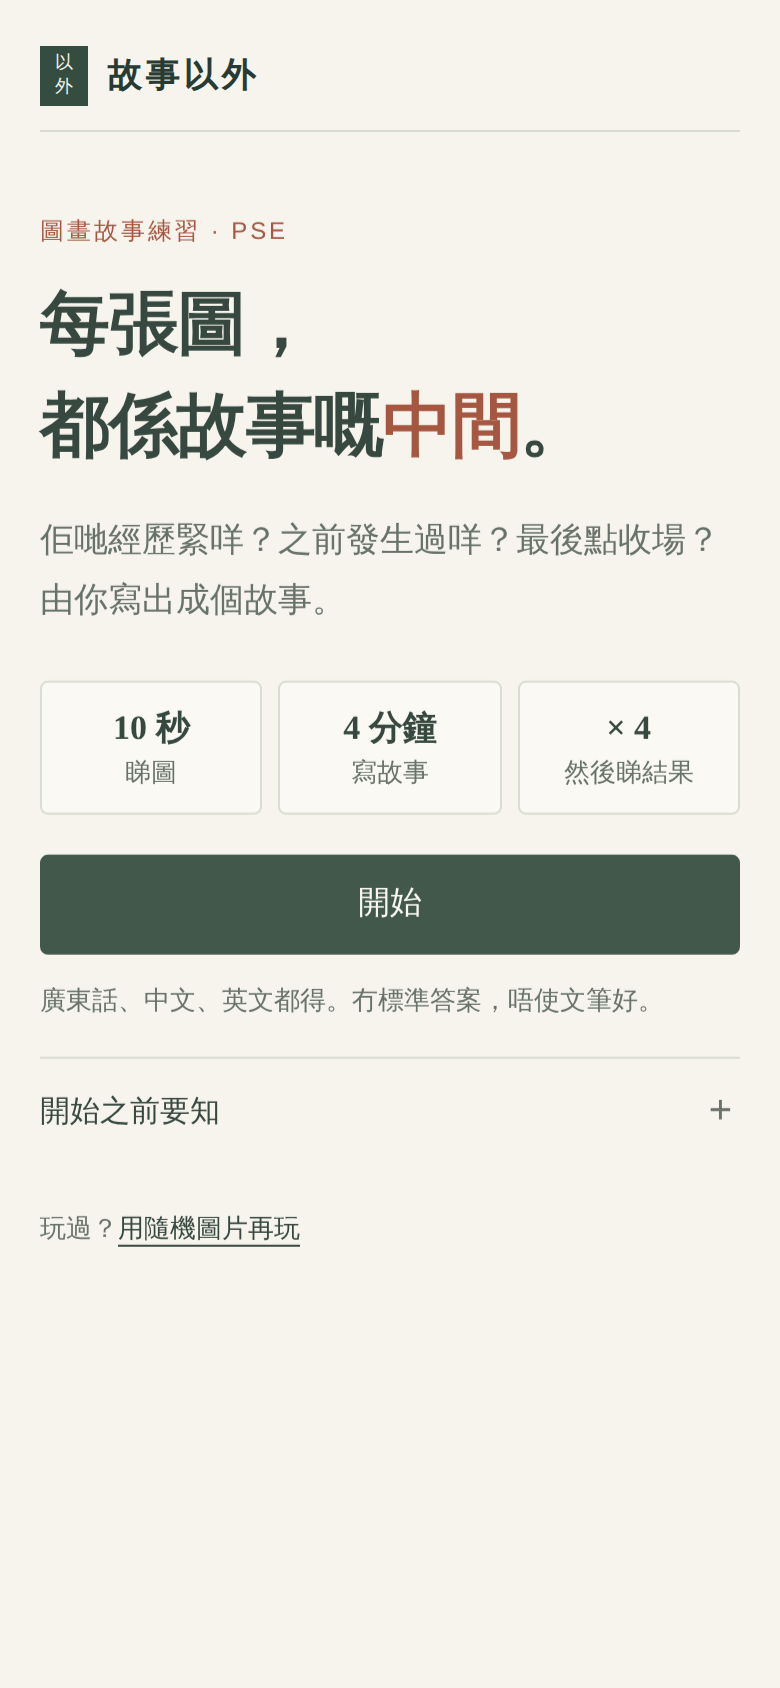
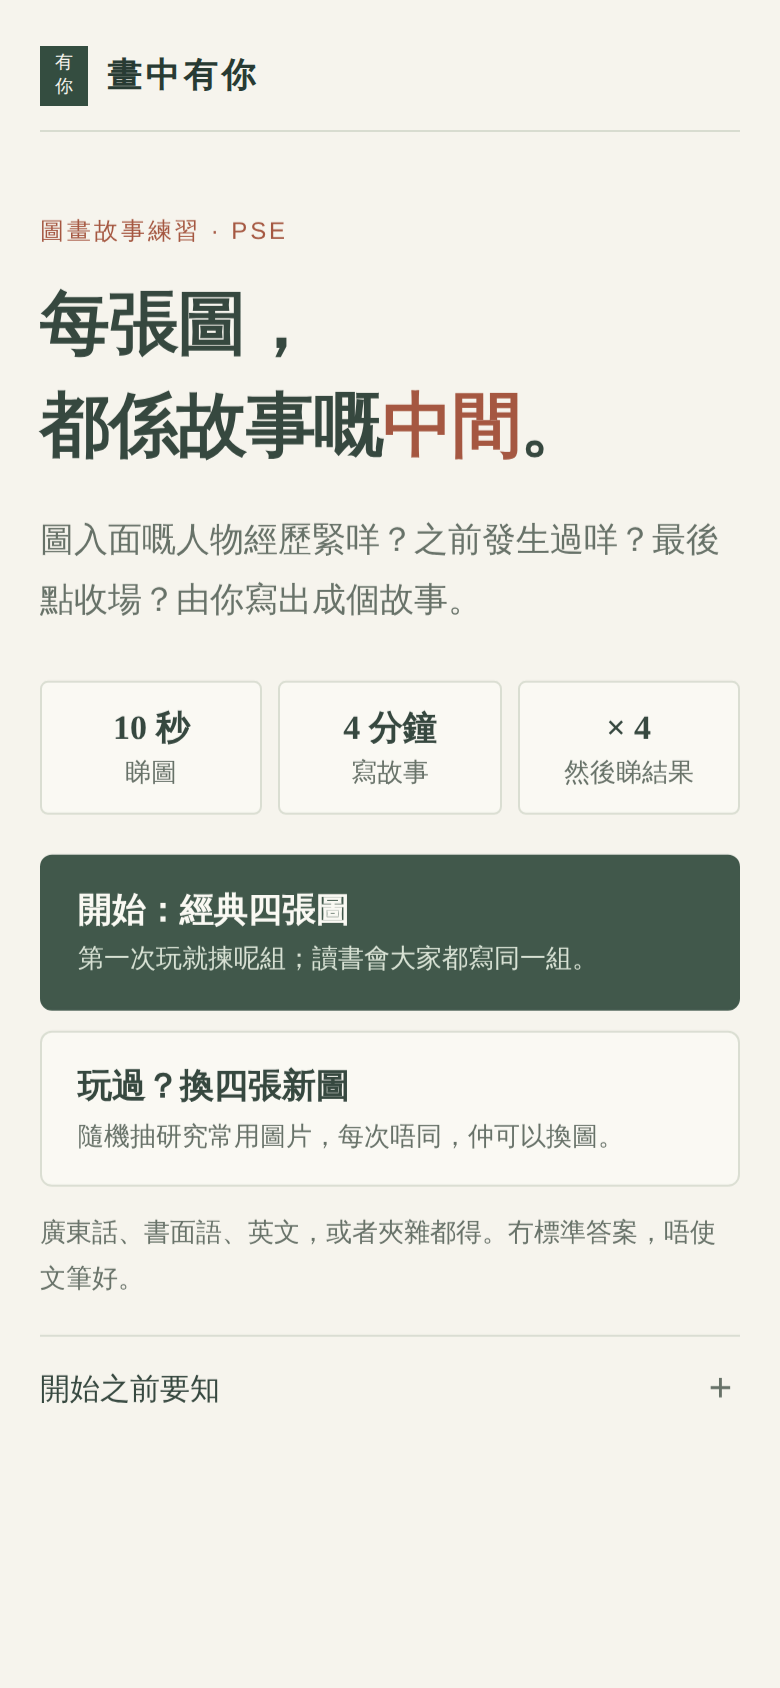
Offer the classic set first and new pictures on replay; make random draws sound
Why: the replay option was a small link under the fold, and an audit of
random mode found it mostly benchmarked against noise.

- Intro: two visible choices. First visit leads with the classic set
  (the bookclub discusses the same pictures); after a completed result
  (local pse-hk:played:v1) new pictures lead and the classic set follows.
  The results page gets a visible 換四張新圖再玩 button.
- Random draws only the 18 non-classic pictures whose German reference
  rests on >= 30 stories (81-2,316). 26 of 48 pictures had < 30 (min 3)
  and c08 none: ~96% of runs drew one, making the reference line and
  picture emphasis noise, and ~8% lost the comparison.
- The classic four are never drawn in random mode (~30% of replays did).
- Pictures already drawn are avoided until all 18 are seen (pse-hk:seen:v1);
  swaps follow the same rule; when too few remain, seen then skipped lists
  are forgotten so the activity never blocks.

Tests: fixtures (normal, fallback) with pool, no-repeat, cycle, swap and
choice-order checks; 18 Node; 49 pytest; full flow.

Claude-Session: https://claude.ai/code/session_01AKJCSX6GhkvQ21ka1gXCbL

diff --git a/web/app.js b/web/app.js
@@ -1,7 +1,12 @@
 "use strict";
 
 const KEY = "pse-hk:draft:v1";
-const SKIP_KEY = "pse-hk:skipped:v1"; // pictures skipped in any run; never drawn again
+const SKIP_KEY = "pse-hk:skipped:v1"; // pictures skipped in any run; not drawn again until the pool runs out
+const SEEN_KEY = "pse-hk:seen:v1";    // random-mode pictures already drawn; avoided until all have been seen
+const PLAYED_KEY = "pse-hk:played:v1"; // set after a result, so the intro suggests new pictures next time
+// Random mode draws only pictures whose German reference rests on at least this many stories;
+// smaller samples (down to 3 stories) make the reference line and picture emphasis noise.
+const MIN_NORM_STORIES = 30;
 const PER_RUN = 4;
 const MAX_SKIPS = 4;
 const MAX_AGE_MS = 7 * 24 * 3600 * 1000;
@@ -93,8 +98,31 @@ function fresh() {
 const byId = (id) => pool.find((p) => p.id === id);
 function usePictures() { pictures = S.order.map(byId); }
 
-function skipped() {
-  try { return JSON.parse(localStorage.getItem(SKIP_KEY)) || []; } catch { return []; }
+const readList = (key) => { try { return JSON.parse(localStorage.getItem(key)) || []; } catch { return []; } };
+const skipped = () => readList(SKIP_KEY);
+function remember(key, ids) {
+  try { localStorage.setItem(key, JSON.stringify([...new Set([...readList(key), ...ids])])); } catch { /* storage unavailable */ }
+}
+function forget(key) {
+  try { localStorage.removeItem(key); } catch { /* storage unavailable */ }
+}
+function played() {
+  try { return !!localStorage.getItem(PLAYED_KEY); } catch { return false; }
+}
+
+/** Random mode: pictures with a solid research reference, never the classic set, so a replay means new pictures. */
+const randomPool = () => pool.filter((p) => p.pull && p.pull.n_stories >= MIN_NORM_STORIES && !BOOKCLUB_SET.includes(p.id));
+
+/** Unseen, unskipped pictures; forgets what was seen, then what was skipped, rather than block the activity. */
+function candidates(exclude = [], need = 1) {
+  const pick = (...keys) => {
+    const gone = new Set([...exclude, ...keys.flatMap(readList)]);
+    return randomPool().filter((p) => !gone.has(p.id));
+  };
+  let free = pick(SKIP_KEY, SEEN_KEY);
+  if (free.length < need) { forget(SEEN_KEY); free = pick(SKIP_KEY); }
+  if (free.length < need) { forget(SKIP_KEY); free = pick(); }
+  return free;
 }
 
 function takeRandom(list) {
@@ -108,30 +136,22 @@ function draw() {
     S.stories = Object.fromEntries(S.order.map((id) => [id, ""]));
     return usePictures();
   }
-  const gone = new Set(skipped());
-  let free = pool.filter((p) => !gone.has(p.id));
-  if (free.length < PER_RUN) {
-    // ponytail: pool used up by old skips, so forget them rather than block the activity
-    try { localStorage.removeItem(SKIP_KEY); } catch { /* storage unavailable */ }
-    free = [...pool];
-  }
+  const free = candidates([], PER_RUN);
   S.order = Array.from({ length: PER_RUN }, () => takeRandom(free).id);
+  remember(SEEN_KEY, S.order);
   S.stories = Object.fromEntries(S.order.map((id) => [id, ""]));
   usePictures();
 }
 
-function replacements() {
-  const gone = new Set([...skipped(), ...S.order]);
-  return pool.filter((p) => !gone.has(p.id));
-}
-
 function skip() {
   const pid = S.order[S.round];
-  const left = replacements();
-  if (!S.skipsLeft || !left.length || composing) return;
+  if (!S.skipsLeft || composing) return;
   if (S.stories[pid].trim() && !confirm("換圖會刪除你為呢張圖寫嘅故事，確定？")) return;
-  try { localStorage.setItem(SKIP_KEY, JSON.stringify([...skipped(), pid])); } catch { /* still skipped for this run */ }
+  remember(SKIP_KEY, [pid]);
+  const left = candidates(S.order);
+  if (!left.length) return;
   const next = takeRandom(left).id;
+  remember(SEEN_KEY, [next]);
   S.order[S.round] = next;
   delete S.stories[pid]; delete S.writeMs[pid];
   S.stories[next] = "";
@@ -142,7 +162,8 @@ function skip() {
 }
 
 function updateSkip() {
-  const can = S.skipsLeft > 0 && replacements().length > 0;
+  // candidates() can always refill by forgetting, so any other eligible picture means a swap is possible.
+  const can = S.skipsLeft > 0 && randomPool().some((p) => !S.order.includes(p.id));
   document.querySelectorAll(".skip").forEach((b) => {
     b.hidden = !can;
     b.textContent = `換一張（仲可以換 ${S.skipsLeft} 次）`;
@@ -196,11 +217,26 @@ function show(id) {
 
 function goIntro() {
   const d = load();
-  $("btn-start").hidden = !!d;
-  $("btn-random").hidden = !!d;
-  $("btn-resume").hidden = !d;
-  $("btn-delete").hidden = !d;
+  $("choices").hidden = !!d;
+  $("resume-actions").hidden = !d;
+  setChoices(played());
   show("v-intro");
+}
+
+/** First visit: the classic set leads. After a result: new pictures lead, the classic set stays one tap away. */
+function setChoices(returning) {
+  const classic = $("btn-start"), fresher = $("btn-random");
+  classic.className = returning ? "choice" : "choice primary";
+  fresher.className = returning ? "choice primary" : "choice";
+  const [ct, cn] = returning ? ["再寫一次經典四張", "同一組圖，睇下今次寫得一唔一樣。"]
+    : ["開始：經典四張圖", "第一次玩就揀呢組；讀書會大家都寫同一組。"];
+  const [ft, fn] = returning ? ["換四張新圖再玩", "隨機抽你未寫過嘅圖，唔啱眼仲可以換。"]
+    : ["玩過？換四張新圖", "隨機抽研究常用圖片，每次唔同，仲可以換圖。"];
+  classic.querySelector(".choice-title").textContent = ct;
+  classic.querySelector(".choice-note").textContent = cn;
+  fresher.querySelector(".choice-title").textContent = ft;
+  fresher.querySelector(".choice-note").textContent = fn;
+  $("choices").replaceChildren(...(returning ? [fresher, classic] : [classic, fresher]));
 }
 
 function resume(d) {
@@ -452,6 +488,7 @@ async function submit() {
         return showError("收到嘅結果唔完整，未能顯示。你嘅故事仍然保存喺呢度。");
       }
       lastResult = data;
+      try { localStorage.setItem(PLAYED_KEY, "1"); } catch { /* storage unavailable */ }
       clearDraft(); // only after a validated result has rendered
       S = fresh();
     });

diff --git a/tests/web_fixtures.js b/tests/web_fixtures.js
@@ -53,11 +53,39 @@ function runWebFixtures() {
   check("language line above the box", ["英文", "廣東話", "書面語", "夾雜"].every((x) => document.getElementById("lang-note").textContent.includes(x))
     && document.getElementById("lang-note").compareDocumentPosition(document.getElementById("story")) & Node.DOCUMENT_POSITION_FOLLOWING);
   check("no continuation framing", !document.getElementById("v-write").textContent.includes("然後"));
+  const stored = Object.fromEntries([SKIP_KEY, SEEN_KEY, PLAYED_KEY].map((k) => [k, localStorage.getItem(k)]));
   S = fresh(); S.mode = "random"; draw();
   check("random draws four", new Set(S.order).size === 4 && S.skipsLeft === MAX_SKIPS);
   check("random pool covers whole archive", pool.length === 48
     && pool.filter(p => p.archive_file.startsWith("classic images/")).length === 18
     && pool.filter(p => p.archive_file.startsWith("new images/")).length === 30);
+  // Random mode: solid references only, never the classic set, no repeats until every eligible picture is seen.
+  [SKIP_KEY, SEEN_KEY].forEach((k) => localStorage.removeItem(k));
+  const eligible = randomPool();
+  check("random pool: solid references outside the classic set", eligible.length === 18
+    && eligible.every((p) => p.pull && p.pull.n_stories >= MIN_NORM_STORIES && !BOOKCLUB_SET.includes(p.id))
+    && !eligible.some((p) => p.id === "c08" || p.id === "n26"));
+  const runs = Array.from({ length: 4 }, () => { S = fresh(); S.mode = "random"; draw(); return [...S.order]; });
+  check("four replays never repeat a picture", new Set(runs.flat()).size === 16
+    && runs.flat().every((id) => eligible.some((p) => p.id === id)));
+  S = fresh(); S.mode = "random"; draw();
+  check("pool exhausted: seen list starts a new cycle", new Set(S.order).size === 4 && readList(SEEN_KEY).length === 4);
+  const swap = candidates(S.order);
+  check("swaps avoid the current, seen and classic pictures", swap.length === 14
+    && !swap.some((p) => S.order.includes(p.id) || BOOKCLUB_SET.includes(p.id)));
+  localStorage.setItem(SKIP_KEY, JSON.stringify(eligible.slice(0, 16).map((p) => p.id)));
+  S = fresh(); S.mode = "random"; draw();
+  check("too many skips are forgotten rather than blocking", new Set(S.order).size === 4);
+  setChoices(false);
+  check("first visit leads with the classic set", document.getElementById("choices").firstElementChild.id === "btn-start"
+    && document.getElementById("btn-start").classList.contains("primary") && !document.getElementById("btn-random").classList.contains("primary")
+    && document.getElementById("btn-random").textContent.includes("玩過？"));
+  setChoices(true);
+  check("returning players are offered new pictures first", document.getElementById("choices").firstElementChild.id === "btn-random"
+    && document.getElementById("btn-random").classList.contains("primary") && document.getElementById("btn-start").textContent.includes("經典"));
+  setChoices(false);
+  check("results offer new pictures visibly", document.getElementById("btn-again-random").classList.contains("secondary"));
+  Object.entries(stored).forEach(([k, v]) => (v === null ? localStorage.removeItem(k) : localStorage.setItem(k, v)));
   S = fresh();
 
   pictures = ["p1", "p2", "p3", "p4"].map(byId); // results render against the run's pictures

diff --git a/web/index.html b/web/index.html
@@ -30,10 +30,13 @@
       <li><b>4 分鐘</b>寫故事</li>
       <li><b>× 4</b>然後睇結果</li>
     </ol>
-    <div class="actions intro-actions">
-      <button id="btn-start" class="primary">開始</button>
-      <button id="btn-resume" class="primary" hidden>繼續上次嘅故事</button>
-      <button id="btn-delete" class="quiet" hidden>刪除草稿</button>
+    <div id="choices" class="choices">
+      <button id="btn-start" class="choice primary" type="button"><span class="choice-title">開始：經典四張圖</span><span class="choice-note">第一次玩就揀呢組；讀書會大家都寫同一組。</span></button>
+      <button id="btn-random" class="choice" type="button"><span class="choice-title">玩過？換四張新圖</span><span class="choice-note">隨機抽研究常用圖片，每次唔同，仲可以換圖。</span></button>
+    </div>
+    <div id="resume-actions" class="actions intro-actions" hidden>
+      <button id="btn-resume" class="primary">繼續上次嘅故事</button>
+      <button id="btn-delete" class="quiet">刪除草稿</button>
     </div>
     <p class="fine">廣東話、書面語、英文，或者夾雜都得。冇標準答案，唔使文筆好。</p>
     <details class="more"><summary>開始之前要知</summary>
@@ -44,7 +47,6 @@
         <li>分析服務閒置時會休眠，提交後可能要等一陣。</li>
       </ul>
     </details>
-    <p class="fine repeat-play">玩過？<button id="btn-random" class="link" type="button">用隨機圖片再玩</button></p>
   </section>
 
   <section id="v-view" class="view exercise-view" hidden aria-labelledby="view-title">
@@ -142,8 +144,7 @@
       <ul id="credits-results" class="credits"></ul>
     </details>
 
-    <div class="result-footer"><div class="actions"><button id="btn-download" class="primary">下載故事同結果 ↓</button><button id="btn-restart" class="quiet">返回開始</button></div><p class="fine">結果唔會保存，重新整理就會消失。</p></div>
-    <p class="fine repeat-play"><button id="btn-again-random" class="link">用隨機圖片再寫一組</button></p>
+    <div class="result-footer"><div class="actions"><button id="btn-download" class="primary">下載故事同結果 ↓</button><button id="btn-again-random" class="secondary">換四張新圖再玩 →</button><button id="btn-restart" class="quiet">返回開始</button></div><p class="fine">結果唔會保存，重新整理就會消失。</p></div>
   </section>
   <noscript><p class="notice">呢個活動需要 JavaScript。</p></noscript>
 </main>

diff --git a/web/styles.css b/web/styles.css
@@ -57,7 +57,14 @@ button:disabled { opacity: .45; cursor: not-allowed; }
 .steps li { background: var(--card); border: 1px solid var(--rule); border-radius: 4px; padding: 10px 8px; text-align: center; font-size: 13px; color: var(--ink-2); line-height: 1.5; }
 .steps b { display: block; font: 600 17px/1.5 var(--display); color: var(--ink); }
 .intro-actions { margin: 20px 0 12px; }
-.repeat-play { margin: 16px 0 0; }
+.choices { display: grid; gap: 10px; margin: 20px 0 12px; }
+button.choice { display: grid; gap: 2px; text-align: left; padding: 14px 18px; background: var(--card); border-color: var(--rule); border-radius: 6px; }
+button.choice.primary { background: var(--binding); border-color: var(--binding); color: var(--card); }
+.choice-title { font: 600 17px/1.5 var(--body); }
+.choice-note { font-size: 13px; line-height: 1.6; color: var(--ink-2); font-weight: 400; }
+button.choice.primary .choice-note { color: #d6e0d3; }
+button.secondary { background: var(--card); border-color: var(--binding); color: var(--ink); }
+@media (hover: hover) { button.choice:not(.primary):hover, button.secondary:hover { background: var(--paper-2); } }
 ul.plain { padding-left: 18px; margin: 0; font-size: 14px; color: var(--ink-2); }
 ul.plain li { margin-bottom: 8px; }
 details.more { border-top: 1px solid var(--rule); margin-top: 16px; }

diff --git a/README.md b/README.md
@@ -67,7 +67,8 @@ Doing it at home also spreads the load. The backend scores one story set at a ti
 
 - Four pictures per run. Each is shown for 10 s, followed by a soft 4-minute writing period.
 - **Bookclub mode (default):** new runs show boxer, couple by river, women in laboratory, and ship captain, in that order (`BOOKCLUB_SET`: c05, c07, c18, c15), without skipping. Summed German picture-pull means: aff 4.18, ach 3.42, pow 3.99. Existing drafts keep their original pictures.
-- **Random mode:** four pictures from the entire supplied archive (18 classical and 30 newer pictures). Participants may skip up to 4 per run. Skipped pictures are excluded on that browser until fewer than four eligible pictures remain, when the exclusion list resets.
+- **Random mode (「換四張新圖」):** four pictures from the 18 outside the classic set whose German reference rests on at least 30 stories (`MIN_NORM_STORIES`; in practice 81–2,316). Pictures with tiny or missing norms stay in the catalogue for old drafts but are not drawn, because a reference from 3–9 stories makes the reference line and picture emphasis noise. Pictures already drawn on this browser are avoided until all 18 have been seen, so about four replays bring only new pictures. Participants may skip up to 4 per run; skipped pictures are avoided too. When too few remain, the seen list is forgotten first, then the skip list, so the activity never blocks.
+- **Choosing a set:** the intro offers two buttons. On a first visit 「開始：經典四張圖」 leads and 「玩過？換四張新圖」 follows; after a completed result the order flips (「換四張新圖再玩」 first, 「再寫一次經典四張」 second). The results page has a visible 「換四張新圖再玩」 button.
 - No motive category is named before writing. Results show a descriptive interpretation in words, a profile of bars against length-adjusted research reference lines when complete, exact supporting sentences, and relative picture emphasis. Balanced motive reflection notes, sentence cards (English and its themes), three SDT questions and a short 「關於呢個練習」 note with credits follow.
 - A story is final once the participant presses「下一張」, so later pictures cannot change earlier stories. The review screen is read-only, except for a story the length checks reject.
 - The writing screen asks for a complete story (「寫出成個故事」) in any comfortable language or mix. Placeholder prompts cover the scene, before, characters' inner experience and ending, with optional names or roles for clarity. Participants choose whom to write about; no gendered pronouns or answers for every person are required. Persistent reminders read 此刻 · 前因 · 內心 · 結局. A short story gets one optional, non-judgmental invitation to add thoughts or an ending. No self-revelation claim is made during writing. Guidance v4 preserves earlier draft history.
@@ -108,7 +109,7 @@ A motive counts at most once per sentence. Counts are raw, never per 1,000 words
 
 ## Pictures
 
-The private exercise uses the supplied `assets/pqckn-osfstorage-archive`: 18 classical pictures and 30 newer pictures. `web/stimuli.json` records the archive filename, source, dimensions and workbook row for each verified pull match. All 48 are eligible for random mode. The historical nine web images/IDs remain unchanged to preserve saved drafts; the other 39 are resized without cropping and compressed for web use. Existing licence records are retained; newly imported files are identified as supplied for private use without inventing individual licence claims.
+The private exercise uses the supplied `assets/pqckn-osfstorage-archive`: 18 classical pictures and 30 newer pictures. `web/stimuli.json` records the archive filename, source, dimensions and workbook row for each verified pull match. Random mode draws only the 18 non-classic pictures with at least 30 reference stories; all 48 remain loadable for existing drafts. The historical nine web images/IDs remain unchanged to preserve saved drafts; the other 39 are resized without cropping and compressed for web use. Existing licence records are retained; newly imported files are identified as supplied for private use without inventing individual licence claims.
 
 The default order is:
 
@@ -159,7 +160,7 @@ The frontend and backend must be deployed together whenever the picture pool cha
 
 ## Data
 
-Drafts stay in the participant's browser (`pse-hk:draft:v1`). Skipped picture ids (random mode only) are stored under `pse-hk:skipped:v1`. The reflection questions on the results page are static text: nothing the participant thinks about their own goals is typed, stored or sent. On submit, the stories go to Modal for coding and to Cloudflare Workers AI for translation. Nothing is stored server-side, and logs contain only ids, counts, timings and error codes. See `docs/launch-checks.md`.
+Drafts stay in the participant's browser (`pse-hk:draft:v1`). Random mode keeps skipped and already-drawn picture ids (`pse-hk:skipped:v1`, `pse-hk:seen:v1`), and a completed result sets `pse-hk:played:v1` so the intro can suggest new pictures next time. None of these leave the browser. The reflection questions on the results page are static text: nothing the participant thinks about their own goals is typed, stored or sent. On submit, the stories go to Modal for coding and to Cloudflare Workers AI for translation. Nothing is stored server-side, and logs contain only ids, counts, timings and error codes. See `docs/launch-checks.md`.
 
 ## Known limitations
 

diff --git a/CHANGELOG.md b/CHANGELOG.md
@@ -1,5 +1,31 @@
 # Changelog
 
+## 2026-09-29 (last) — Classic set first, new pictures on replay; sound random draws
+
+- **Two visible choices on the intro instead of a small link.** First visit:
+  「開始：經典四張圖」 leads, 「玩過？換四張新圖」 follows. After a completed result the
+  order flips: 「換四張新圖再玩」 leads, 「再寫一次經典四張」 follows. The results page
+  gets a visible 「換四張新圖再玩」 button next to the download.
+  *Why:* owner request; the replay option was easy to miss. First-timers should
+  write the shared classic set (the bookclub discusses the same pictures);
+  returning players mostly want something new. A local `pse-hk:played:v1` flag
+  records a completed result so the intro can tell the two apart.
+- **Random mode draws only the 18 non-classic pictures with a reference of at
+  least 30 stories** (in practice 81–2,316).
+  *Why:* checking the pool showed that 26 of 48 pictures have norms from fewer
+  than 30 stories (some from 3), and c08 has none. About 96% of random runs
+  included such a picture, so the reference line, 「圖片參照較偏向」 and ✦ were
+  largely noise, and about 8% lost the comparison entirely. Those pictures stay
+  in the catalogue so old drafts still load.
+- **The classic four are never drawn in random mode.**
+  *Why:* about 30% of replays previously included a classic picture, which
+  defeats "try different pictures".
+- **Pictures already drawn on this browser are avoided until all 18 have been
+  seen;** swaps follow the same rule. When too few remain, the seen list is
+  forgotten first, then the skip list.
+  *Why:* without memory, a replay could repeat the previous run's pictures.
+  Forgetting instead of blocking keeps the activity available.
+
 ## 2026-09-29 (later) — English first, story length, words not numbers
 
 Builds on the evidence-grounded reading below; its gates, faint-label policy,

diff --git a/docs/ui-overhaul-checks.md b/docs/ui-overhaul-checks.md
@@ -79,3 +79,11 @@ Not checked: physical iOS/Android browsers, screen readers, live model service.
 | `/__test__/` fixtures (normal and fallback) | `[]`. Adds: method off the page, about note with credits, no digits or % in the results summary or picture chips, English and themes on sentence cards, length-adjusted bars against reference lines, download keeps method and shares the screen's reading |
 | Full flow, `?mode=flow` | Pass (resume, locked review, busy/retry, story kept) |
 | `pytest` | 49 passed |
+
+### Replay choice and random draws
+
+| Check | Outcome |
+|---|---|
+| Pool audit | 26 of 48 pictures had < 30 reference stories (min 3), c08 none; ~96% of old random runs drew one. Eligible pool now 18 (81–2,316 stories), classic four excluded |
+| `/__test__/` fixtures | `[]`. Adds: pool rules; four replays give 16 distinct pictures; fifth starts a new cycle; swaps avoid current, seen and classic; excess skips forgotten; first-visit vs returning choice order; visible results button |
+| Browser run (390×844) | First visit and returning intros render as intended; random run draws from the eligible pool, records seen, offers 換一張; a swap records the skip; with a draft the intro shows resume instead of the choices; no console errors |
